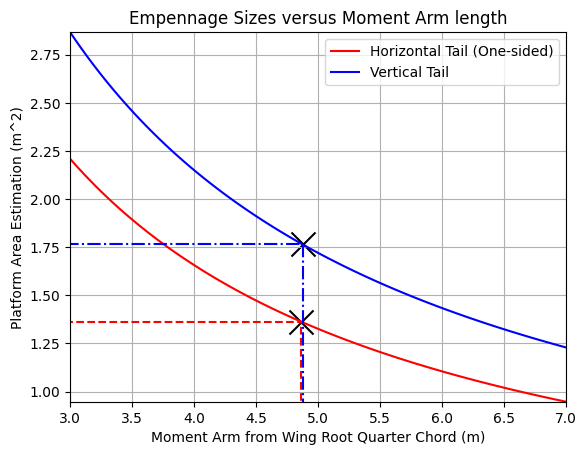
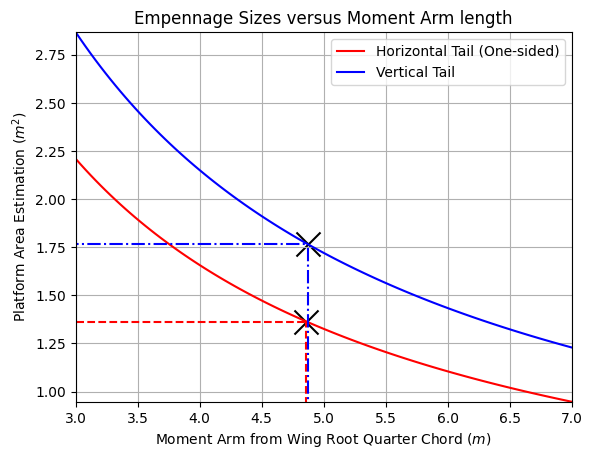
03.06.2021, XT

Changed region(s): [[0.0, 0.0, 0.9829, 0.9846]]

diff --git a/Python_Codes/plot_propeller_3D.py b/Python_Codes/plot_propeller_3D.py
@@ -32,7 +32,9 @@ History:
         03.04.2021, XT. Debugged
 """
 
-def plot_propeller_3D(r_list_in, c_list_in, beta_list_in, Propeller, in_line, show, save, path, is_rad=True):
+
+def plot_propeller_3D(r_list_in, c_list_in, beta_list_in, Propeller, in_line, show=True, save=False, path=None,
+                      is_rad=True):
     # return
 
     def get_Rx(beta_in, is_rad):
@@ -47,8 +49,8 @@ def plot_propeller_3D(r_list_in, c_list_in, beta_list_in, Propeller, in_line, sh
         else:
             beta = beta_in
         Rx = numpy.array([[1, 0, 0],
-              [0, numpy.cos(beta), numpy.sin(beta)],
-              [0, -numpy.sin(beta), numpy.cos(beta)]])
+                          [0, numpy.cos(beta), numpy.sin(beta)],
+                          [0, -numpy.sin(beta), numpy.cos(beta)]])
         return Rx
 
     R = Propeller.radius
@@ -104,18 +106,14 @@ def plot_propeller_3D(r_list_in, c_list_in, beta_list_in, Propeller, in_line, sh
     ax.axes.set_zlim3d(bottom=-lim, top=lim)
     ax.view_init(elev=25, azim=-60)
 
-
-
     for blades in range(numB):
         theta = 2 * numpy.pi / numB * (blades + 1)
         x_rot = x * numpy.cos(theta) - y * numpy.sin(theta)
         y_rot = x * numpy.sin(theta) - y * numpy.cos(theta)
         verts = [list(zip(x_rot, y_rot, rot_vec[2, :]))]
-        coll = Poly3DCollection(verts, alpha = 0.8)
+        coll = Poly3DCollection(verts, alpha=0.8)
         coll.set_facecolor('k')
         ax.add_collection3d(coll)
-
-
 
     if show:
         plt.show()

diff --git a/Sizing/sizing_empennage/empannage_sizing.py b/Sizing/sizing_empennage/empannage_sizing.py
@@ -91,8 +91,8 @@ if __name__ == '__main__':
     plt.plot(mark_horz_v_x, mark_horz_v_y, color="blue", linestyle="dashdot")
     plt.scatter(x_h, S_h / 2, s=300, color='black', marker='x')
     plt.scatter(x_v, S_v, s=300, color='black', marker='x')
-    plt.xlabel('Moment Arm from Wing Root Quarter Chord (m)')
-    plt.ylabel('Platform Area Estimation (m^2)')
+    plt.xlabel(r'Moment Arm from Wing Root Quarter Chord ($m$)')
+    plt.ylabel(r'Platform Area Estimation ($m^2$)')
     plt.legend()
     #my_folder = 'sizing_figures'
     pathway = title

diff --git a/Python_Codes/prop_design_TVG.py b/Python_Codes/prop_design_TVG.py
@@ -18,8 +18,6 @@ except:
     print("Not using latex formatting")
     latex = False
 
-
-
 def prop_design(AtmData, Propeller, T_req, m0_fn, Cd_fn):
     # return r, c, beta, P_design, T_design, Q_design, eta_P, theta
     '''
